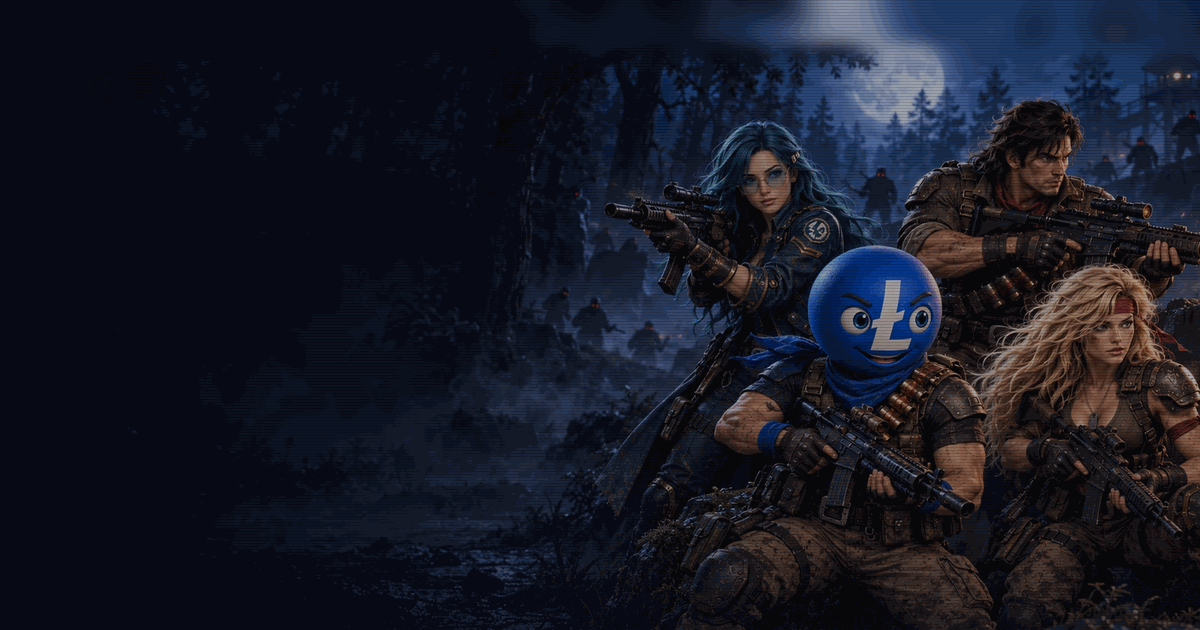
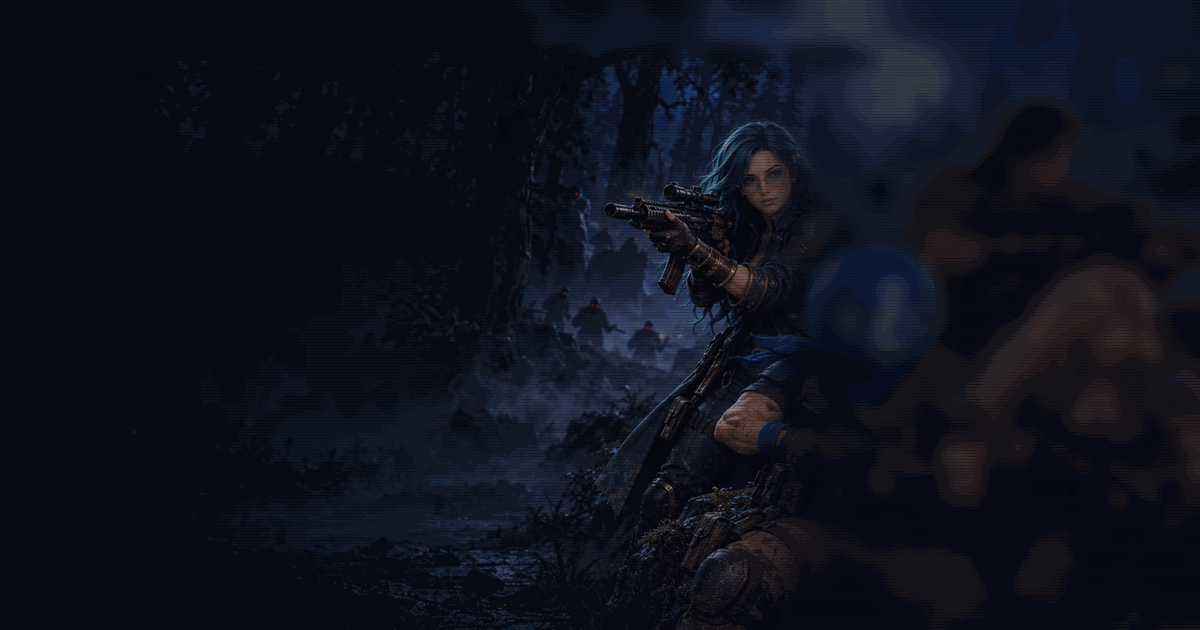
fix(share): let the Free card's hero portrait read over the Free cover
Rendering the free-share lane's Free card (server/share/render-free-card.mjs)
over lester-blaster-free.png showed the player's hero portrait (x 738-1180)
standing on top of the four painted heroes: a second Lit Valkyrie behind the
portrait and the ribbon across Lester's head. The Free background now blurs
and darkens the portrait zone (ramping in over x 720-820, 62 % navy), so the
painted Lilly still stands whole between the score and the portrait while the
rest of the cast recedes into the forest. Ranked, Chikun and STACKED
backgrounds are byte-identical.

Changed region(s): [[0.6167, 0.0, 1.0, 1.0], [0.9867, 0.8746, 1.0, 0.9048]]

diff --git a/scripts/build-share-card-backgrounds.py b/scripts/build-share-card-backgrounds.py
@@ -121,6 +121,28 @@ def drop_below_status_pill(art: Image.Image) -> Image.Image:
     return Image.composite(blurred_top, base, edge)
 
 
+# The Free card (fable/free-share, server/share/render-free-card.mjs) stands the player's hero
+# portrait in PORTRAIT_BOX (x 738-1180, y 188-630) under a ribbon across the top right. The
+# painted heroes of the Free cover sit in the same place, so the Free background blurs and
+# darkens that zone: the painted cast recedes into the forest and the portrait reads first.
+FREE_PORTRAIT_ZONE_X = (720, 820)  # the recess ramps in over this span
+FREE_PORTRAIT_RECESS = 0.62        # navy strength inside the zone
+
+
+def recess_portrait_zone(art: Image.Image) -> Image.Image:
+    soft = art.filter(ImageFilter.GaussianBlur(7))
+    navy = Image.new("RGB", (WIDTH, HEIGHT), (5, 7, 18))
+    receded = Image.blend(soft, navy, FREE_PORTRAIT_RECESS)
+    mask = Image.new("L", (WIDTH, HEIGHT), 0)
+    pixels = mask.load()
+    start, end = FREE_PORTRAIT_ZONE_X
+    for x in range(WIDTH):
+        value = 0 if x <= start else 255 if x >= end else round(255 * (x - start) / (end - start))
+        for y in range(HEIGHT):
+            pixels[x, y] = value
+    return Image.composite(receded, art, mask)
+
+
 def build_background(game_id: str) -> Image.Image:
     source, focus_x, focus_y, pixel_doubled = SOURCES[game_id]
     with Image.open(ROOT / source) as raw:
@@ -129,6 +151,8 @@ def build_background(game_id: str) -> Image.Image:
         art = art.resize((WIDTH // 2, HEIGHT // 2), Image.Resampling.LANCZOS).resize((WIDTH, HEIGHT), Image.Resampling.NEAREST)
     else:
         art = drop_below_status_pill(art)
+    if game_id == "lester-blaster-free":
+        art = recess_portrait_zone(art)
     navy = Image.new("RGB", (WIDTH, HEIGHT), (5, 7, 18))
     darkened = Image.composite(navy, art, legibility_mask())
     lined = scanlines(darkened).convert("RGB")
